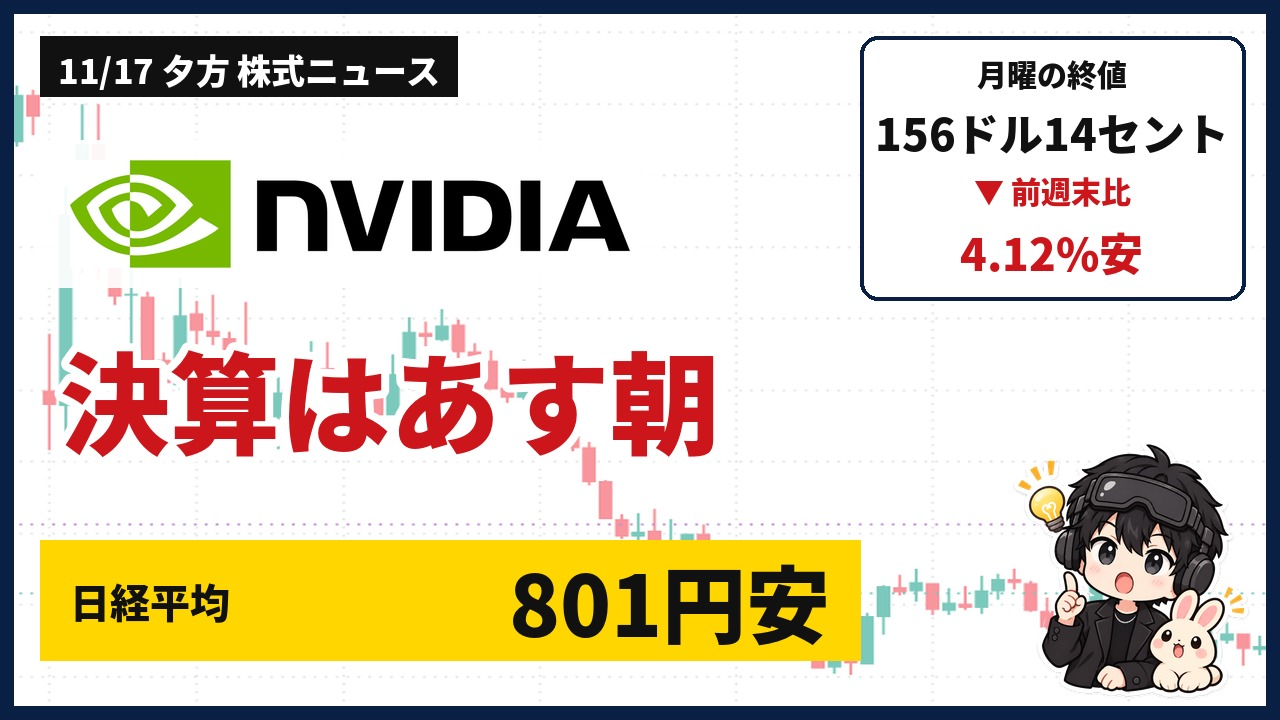
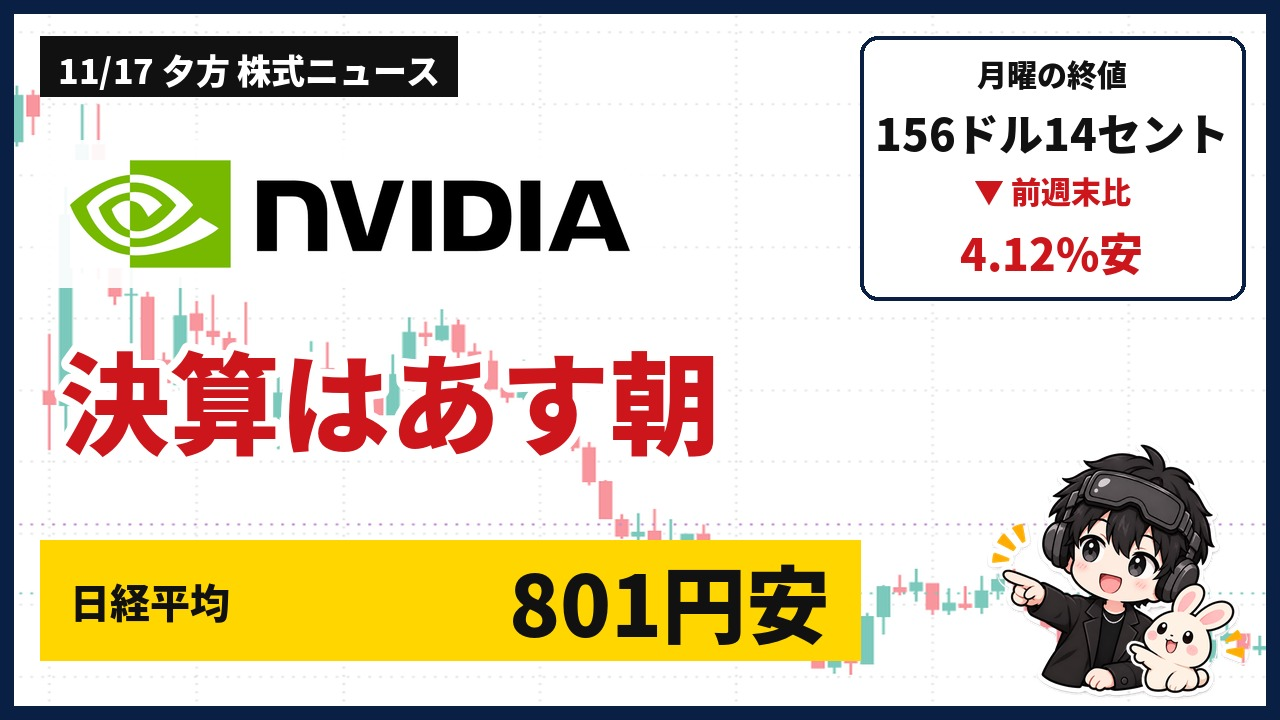
11/17 サムネの立ち絵を差し替え
Claude-Session: https://claude.ai/code/session_013hiH71dx9uuu9vFJ2oP1RV

Changed region(s): [[0.75, 0.6111, 0.9688, 0.9778]]

diff --git a/n1117e/index.html b/n1117e/index.html
@@ -8,7 +8,7 @@
 <h2>ショート（60秒）</h2>
 <div class="s"><video src="short08.mp4?v=1117e" poster="short08.jpg?v=1117e" controls playsinline preload="metadata"></video></div>
 <p><a href="short08.mp4?v=1117e">動画だけを開く</a></p>
-<h2>サムネ</h2><img src="thumb_yoko_1117e.jpg?v=1117e" alt="横のサムネ"><div class="s"><img src="thumb_short_1117e.jpg?v=1117e" alt="ショートのサムネ"></div>
+<h2>サムネ</h2><img src="thumb_yoko_1117e.jpg?v=1117e2" alt="横のサムネ"><div class="s"><img src="thumb_short_1117e.jpg?v=1117e2" alt="ショートのサムネ"></div>
 <h2>出典</h2><ul>
 <li>アメリカの月曜日の取引：株探「米国市場データ」（11/17 7:46）・MINKABU PRESS（8:12）・フィスコ（7:40）</li>
 <li>エヌビディアの終値・下落率：TradingView のみ（1媒体・不確実）</li>
